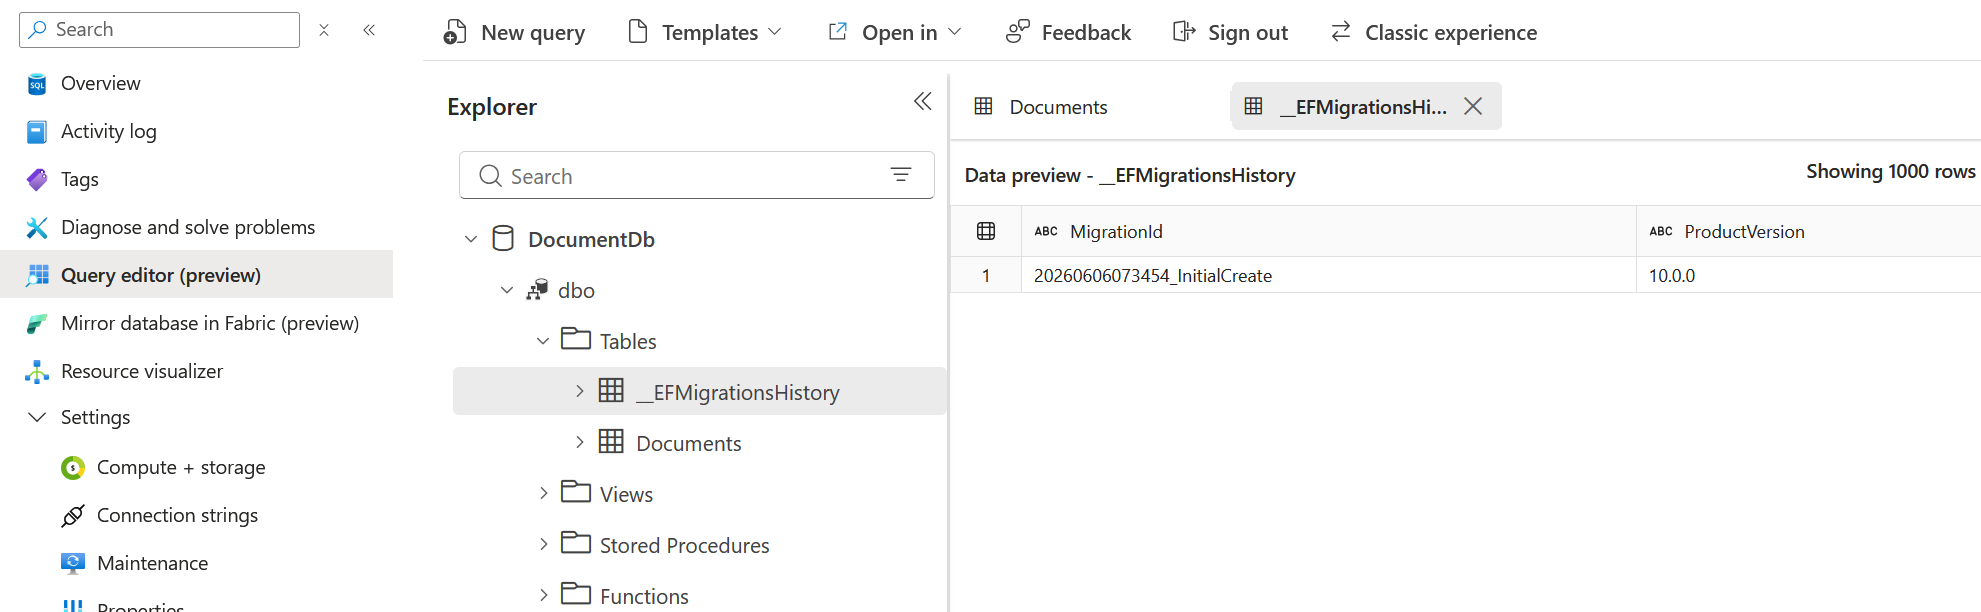
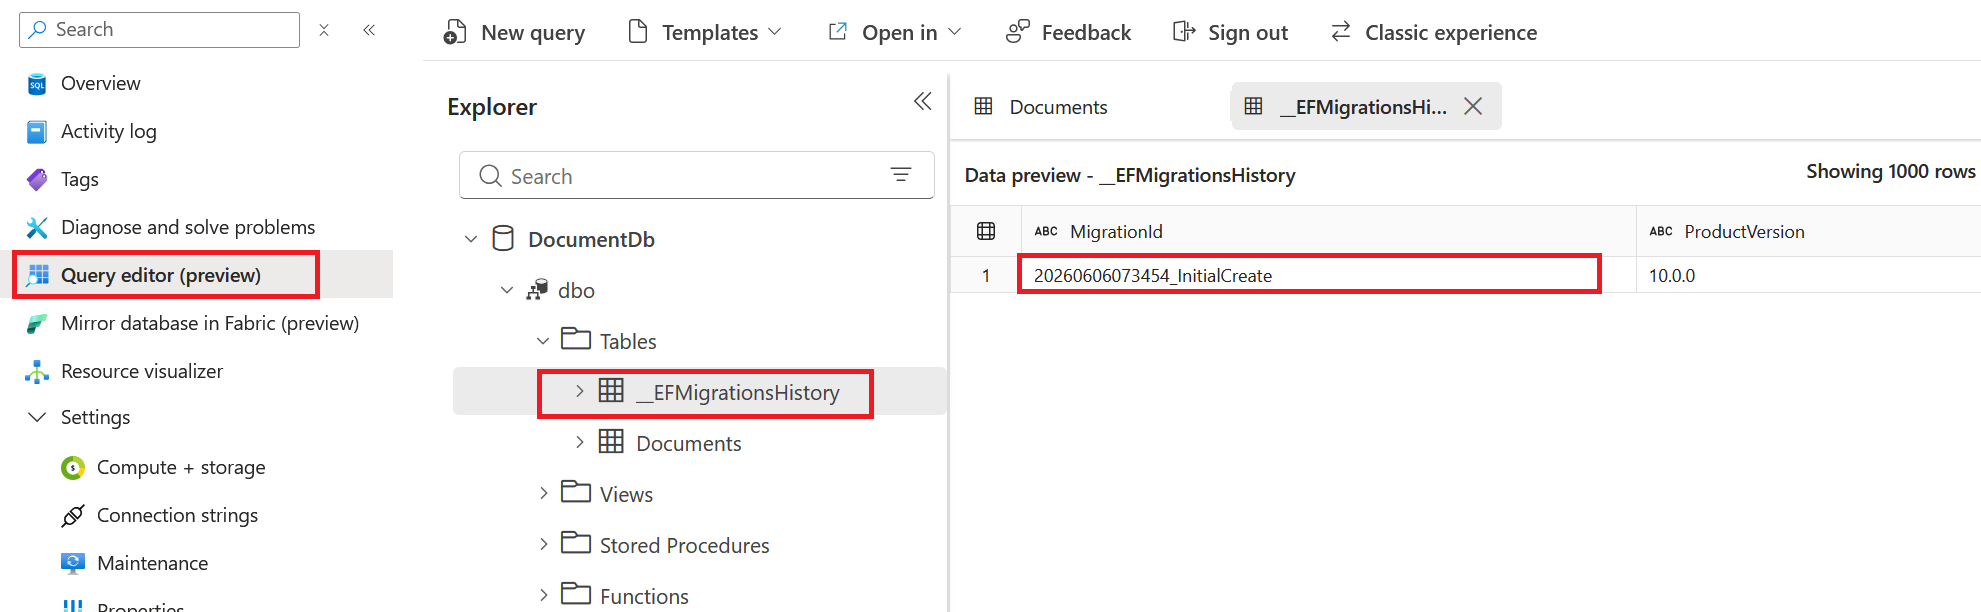
feat: Update lab 4.

diff --git a/tools/LabGen/Program.cs b/tools/LabGen/Program.cs
@@ -1,8 +1,6 @@
 using System.Text;
 using System.Text.Json;
 using System.Text.RegularExpressions;
-using System.Xml;
-using System.Xml.Linq;
 
 var repositoryRoot = FindRepositoryRoot(AppContext.BaseDirectory);
 var manifestPath = Path.Combine(repositoryRoot, "docs", "manifest.json");
@@ -104,56 +102,7 @@ static void GenerateLab(string repositoryRoot, LabManifest manifest, LabDefiniti
         }
     }
 
-    NormalizeSolutionFile(outputRoot);
-
     Console.WriteLine($"Generated {Path.GetRelativePath(repositoryRoot, outputRoot)}");
-}
-
-static void NormalizeSolutionFile(string outputRoot)
-{
-    var solutionPath = Path.Combine(outputRoot, "DocumentAPI.slnx");
-
-    if (!File.Exists(solutionPath))
-    {
-        return;
-    }
-
-    var solutionDocument = XDocument.Load(solutionPath, LoadOptions.PreserveWhitespace);
-    var missingEntries = solutionDocument
-        .Descendants()
-        .Where(element => element.Name.LocalName is "File" or "Project")
-        .Where(element =>
-        {
-            var referencedPath = element.Attribute("Path")?.Value;
-            return string.IsNullOrWhiteSpace(referencedPath)
-                || !File.Exists(Path.Combine(outputRoot, referencedPath));
-        })
-        .ToArray();
-
-    foreach (var entry in missingEntries)
-    {
-        entry.Remove();
-    }
-
-    var emptyFolders = solutionDocument
-        .Descendants()
-        .Where(element => element.Name.LocalName == "Folder")
-        .Where(element => !element.Elements().Any())
-        .ToArray();
-
-    foreach (var folder in emptyFolders)
-    {
-        folder.Remove();
-    }
-
-    var writerSettings = new XmlWriterSettings
-    {
-        OmitXmlDeclaration = true,
-        Encoding = new UTF8Encoding(encoderShouldEmitUTF8Identifier: false),
-    };
-
-    using var writer = XmlWriter.Create(solutionPath, writerSettings);
-    solutionDocument.Save(writer);
 }
 
 static int GenerateWorkshop(string repositoryRoot, LabManifest manifest, string[] args)

diff --git a/src/DocumentAPI/Services/DependencyInjection.cs b/src/DocumentAPI/Services/DependencyInjection.cs
@@ -38,14 +38,10 @@ public static class DependencyInjection
 
         services.AddSingleton<IDocumentActivityMonitor, ApplicationInsightsDocumentActivityMonitor>();
 
-        // <lab id="5">
-        //|        // TODO Lab 5: Register the SQL resilience pipeline.
+        // Register the SQL resilience pipeline.
         services.AddSingleton(DocumentResiliencePipeline.Create());
-        // </lab>
-        // <lab id="7">
-        //|        // TODO Lab 7: Register the shared search cache version.
+        // Register the shared search cache version.
         services.AddSingleton<DocumentSearchCacheVersion>();
-        // </lab>
 
         // Transient: the validator is lightweight and stateless, so a fresh instance per resolution avoids carrying mutable state across calls.
         services.AddTransient<IDocumentUploadValidator, DocumentUploadValidator>();

diff --git a/src/DocumentAPI/Services/Documents/DocumentService.cs b/src/DocumentAPI/Services/Documents/DocumentService.cs
@@ -33,11 +33,11 @@ internal sealed class DocumentService(
     private readonly DocumentDbContext _dbContext = dbContext;
     private readonly IDocumentStorageService _storage = storage;
     private readonly IDocumentActivityMonitor _activityMonitor = activityMonitor;
-    private readonly IMemoryCache _cache = cache;
-    private readonly DocumentSearchCacheVersion _cacheVersion = cacheVersion;
-    private readonly ResiliencePipeline _resiliencePipeline = resiliencePipeline;
-    private readonly DocumentApiOptions _options = options.Value;
     private readonly ILogger<DocumentService> _logger = logger;
+    private readonly IMemoryCache _cache = cache ?? new MemoryCache(new MemoryCacheOptions());
+    private readonly DocumentSearchCacheVersion _cacheVersion = cacheVersion ?? new DocumentSearchCacheVersion();
+    private readonly ResiliencePipeline _resiliencePipeline = resiliencePipeline ?? DocumentResiliencePipeline.Create();
+    private readonly DocumentApiOptions _options = options?.Value ?? new DocumentApiOptions();
 
     /// <inheritdoc />
     public async Task<IReadOnlyList<DocumentDto>> SearchAsync(DocumentSearchCriteria criteria, CancellationToken cancellationToken)

diff --git a/docs/workshop.md b/docs/workshop.md
@@ -412,9 +412,9 @@ private static string CreateSqlConnectionStringFromSettings(string serviceUri, s
 }
 ```
 
-## Build The Project
+## Start The Project
 
-Build the project using the **Run** button in your Visual Studio or the following command lines:
+Start the project using the **Run** button in your Visual Studio or the following command lines:
 
 ```bash
 dotnet run --project src/DocumentAPI/DocumentAPI.csproj
@@ -595,6 +595,7 @@ You only need to edit these files:
 
 - `src/DocumentAPI/Endpoints/DocumentEndpoints.cs`
 - `src/DocumentAPI/Services/Documents/DocumentService.cs`
+- `src/DocumentAPI/Services/DependencyInjection.cs`
 
 Contracts, DTOs, storage, and database services are already provided.
 
@@ -645,6 +646,8 @@ var document = await documentService.UploadAsync(
 return Results.Json(document, statusCode: StatusCodes.Status201Created);
 ```
 
+As you can see, the endpoint also handles validation failures by returning problem details. The `Results.Problem` method is a convenient way to create a problem details response with the appropriate content type and status code. You don't need to create a`APIError` class or `APIResponse` class manually it's all handled by the `Results` class provided by ASP.NET Core.
+
 ## Implement The Service Happy Path
 
 Open `DocumentService.cs` and implement `UploadAsync`.
@@ -691,7 +694,11 @@ _activityMonitor.TrackUploadSucceeded(documentDto, stopwatch.Elapsed.TotalMillis
 return documentDto;
 ```
 
-Then implement the DTO mapping helper:
+As you can see, the storage service is responsible for saving the file content, while the database context is responsible for saving the metadata. 
+
+A stopwatch is used to track the time taken for the upload operation, and the activity monitor is used to log a successful custom upload event with the document details and elapsed time. While time taken by an endpoint can be automatically tracked by Application Insights, custom events like this upload succeeded can provide more granular insights into specific operations within your application. You will see the implementation of the `TrackUploadSucceeded` method in the next lab when you implement Application Insights integration.
+
+Then the service maps the `Document` entity which represent the database object to a `DocumentDto` that can be returned to the client. Let's implement it:
 
 ```csharp
 private static DocumentDto ToDocumentDto(Document document)
@@ -713,15 +720,37 @@ private static DocumentDto ToDocumentDto(Document document)
 }
 ```
 
-## Test The Upload
+By doing so, you ensure that the API response is decoupled from the internal database representation, allowing for more flexibility in how you manage and evolve your data models over time.
 
-Build the project:
+## Register The Document Service
 
-```bash
-dotnet build src/DocumentAPI/DocumentAPI.csproj
+Open `DependencyInjection.cs` and update the service registration to include the `DocumentService` implementation:
+
+```csharp
+services.AddScoped<IDocumentService, DocumentService>();
 ```
 
-You can use Swagger UI or `src/http/requests.http` to send a multipart upload.
+## Test The Upload
+
+Start the project using the **Run** button in your Visual Studio or the following command lines:
+
+```bash
+dotnet run --project src/DocumentAPI/DocumentAPI.csproj
+```
+
+Inside the Solution Items, open the `http/requests.http` file to send a multipart upload:
+
+![Send request to upload](./assets/send-upload-request-happy-path.png)
+
+You must see the `201 Created` response with the uploaded document details and if you go inside your Azure SQL Database you should see the new document metadata row created:
+
+![Document metadata in Azure SQL Database](./assets/document-metadata-happy-path.png)
+
+If you check your resource group, inside the Storage Account, inside **Containers** select the container named **documents** and you should see the new blob with the content of the uploaded file:
+
+![Blob content in Azure Storage](./assets/blob-content-happy-path.png)
+
+To upload new files you can modify the name `sample-1.pdf` to point to other files in the `files` folder.
 
 <div class="task" data-title="Validation">
 

diff --git a/docs/4-upload-happy-path.md b/docs/4-upload-happy-path.md
@@ -23,6 +23,7 @@ You only need to edit these files:
 
 - `src/DocumentAPI/Endpoints/DocumentEndpoints.cs`
 - `src/DocumentAPI/Services/Documents/DocumentService.cs`
+- `src/DocumentAPI/Services/DependencyInjection.cs`
 
 Contracts, DTOs, storage, and database services are already provided.
 
@@ -73,6 +74,8 @@ var document = await documentService.UploadAsync(
 return Results.Json(document, statusCode: StatusCodes.Status201Created);
 ```
 
+As you can see, the endpoint also handles validation failures by returning problem details. The `Results.Problem` method is a convenient way to create a problem details response with the appropriate content type and status code. You don't need to create a`APIError` class or `APIResponse` class manually it's all handled by the `Results` class provided by ASP.NET Core.
+
 ## Implement The Service Happy Path
 
 Open `DocumentService.cs` and implement `UploadAsync`.
@@ -119,7 +122,11 @@ _activityMonitor.TrackUploadSucceeded(documentDto, stopwatch.Elapsed.TotalMillis
 return documentDto;
 ```
 
-Then implement the DTO mapping helper:
+As you can see, the storage service is responsible for saving the file content, while the database context is responsible for saving the metadata. 
+
+A stopwatch is used to track the time taken for the upload operation, and the activity monitor is used to log a successful custom upload event with the document details and elapsed time. While time taken by an endpoint can be automatically tracked by Application Insights, custom events like this upload succeeded can provide more granular insights into specific operations within your application. You will see the implementation of the `TrackUploadSucceeded` method in the next lab when you implement Application Insights integration.
+
+Then the service maps the `Document` entity which represent the database object to a `DocumentDto` that can be returned to the client. Let's implement it:
 
 ```csharp
 private static DocumentDto ToDocumentDto(Document document)
@@ -141,15 +148,37 @@ private static DocumentDto ToDocumentDto(Document document)
 }
 ```
 
-## Test The Upload
+By doing so, you ensure that the API response is decoupled from the internal database representation, allowing for more flexibility in how you manage and evolve your data models over time.
 
-Build the project:
+## Register The Document Service
 
-```bash
-dotnet build src/DocumentAPI/DocumentAPI.csproj
+Open `DependencyInjection.cs` and update the service registration to include the `DocumentService` implementation:
+
+```csharp
+services.AddScoped<IDocumentService, DocumentService>();
 ```
 
-You can use Swagger UI or `src/http/requests.http` to send a multipart upload.
+## Test The Upload
+
+Start the project using the **Run** button in your Visual Studio or the following command lines:
+
+```bash
+dotnet run --project src/DocumentAPI/DocumentAPI.csproj
+```
+
+Inside the Solution Items, open the `http/requests.http` file to send a multipart upload:
+
+![Send request to upload](./assets/send-upload-request-happy-path.png)
+
+You must see the `201 Created` response with the uploaded document details and if you go inside your Azure SQL Database you should see the new document metadata row created:
+
+![Document metadata in Azure SQL Database](./assets/document-metadata-happy-path.png)
+
+If you check your resource group, inside the Storage Account, inside **Containers** select the container named **documents** and you should see the new blob with the content of the uploaded file:
+
+![Blob content in Azure Storage](./assets/blob-content-happy-path.png)
+
+To upload new files you can modify the name `sample-1.pdf` to point to other files in the `files` folder.
 
 <div class="task" data-title="Validation">
 

diff --git a/docs/2-sql-database-and-dependency-injection.md b/docs/2-sql-database-and-dependency-injection.md
@@ -128,9 +128,9 @@ private static string CreateSqlConnectionStringFromSettings(string serviceUri, s
 }
 ```
 
-## Build The Project
+## Start The Project
 
-Build the project using the **Run** button in your Visual Studio or the following command lines:
+Start the project using the **Run** button in your Visual Studio or the following command lines:
 
 ```bash
 dotnet run --project src/DocumentAPI/DocumentAPI.csproj